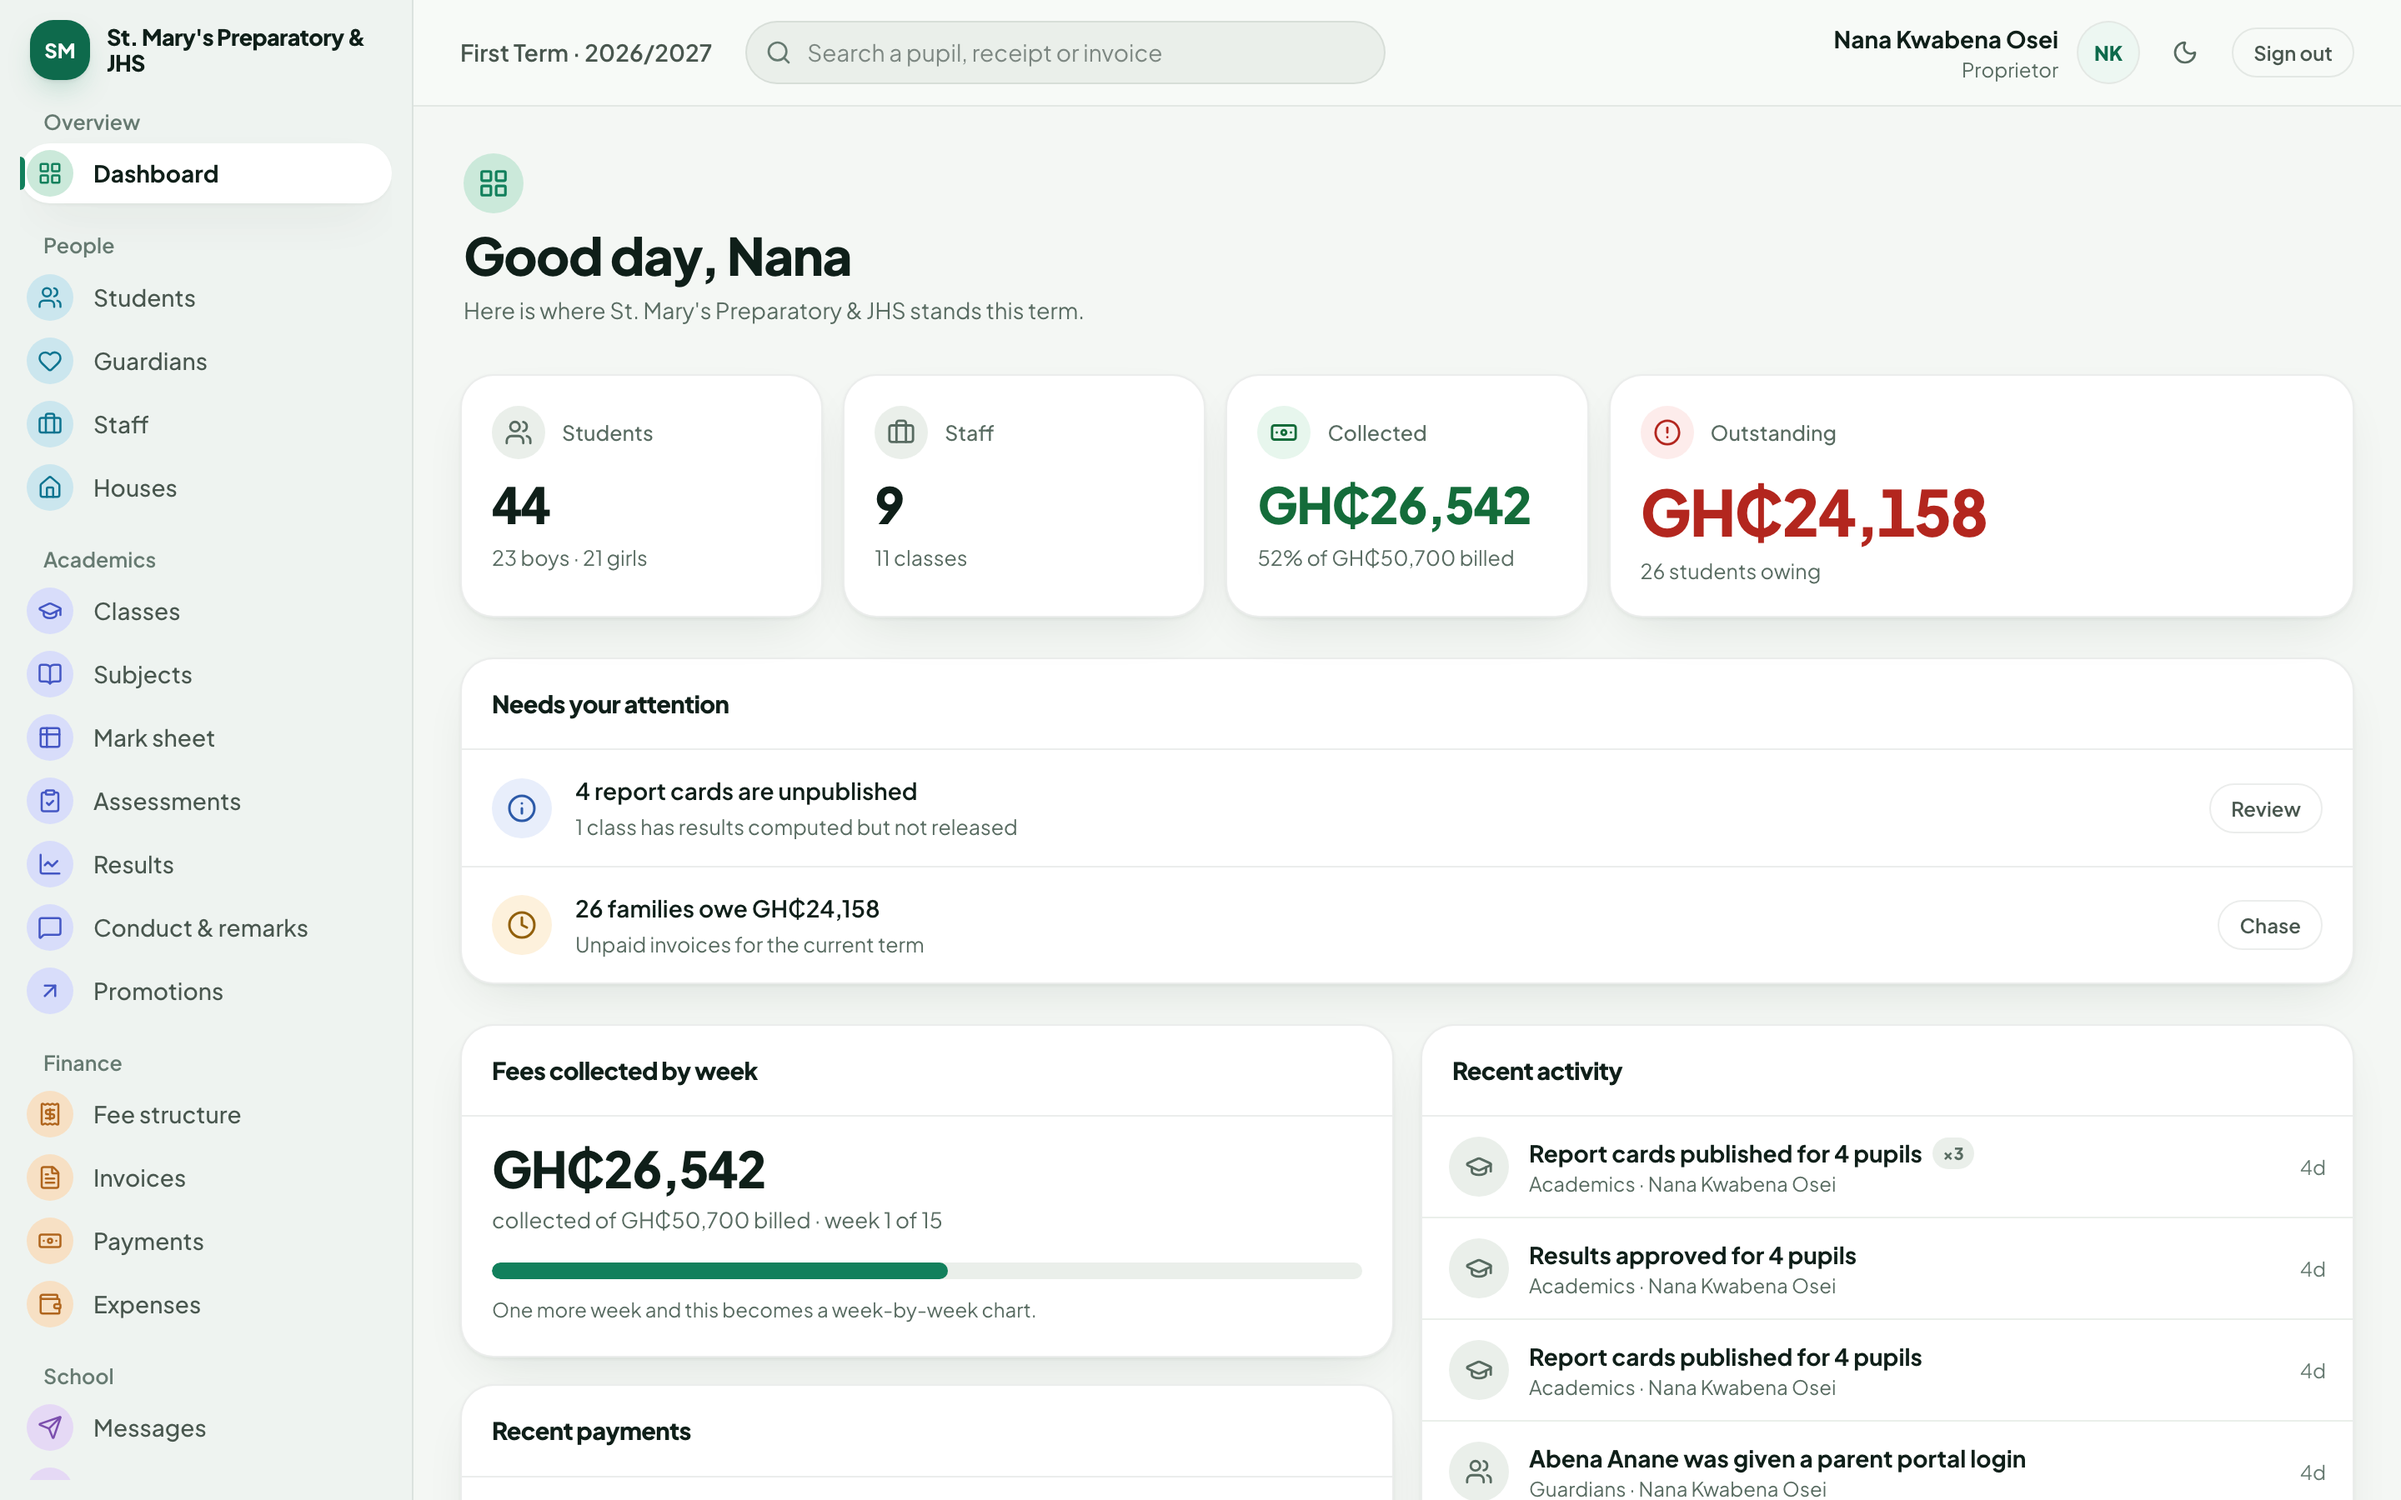
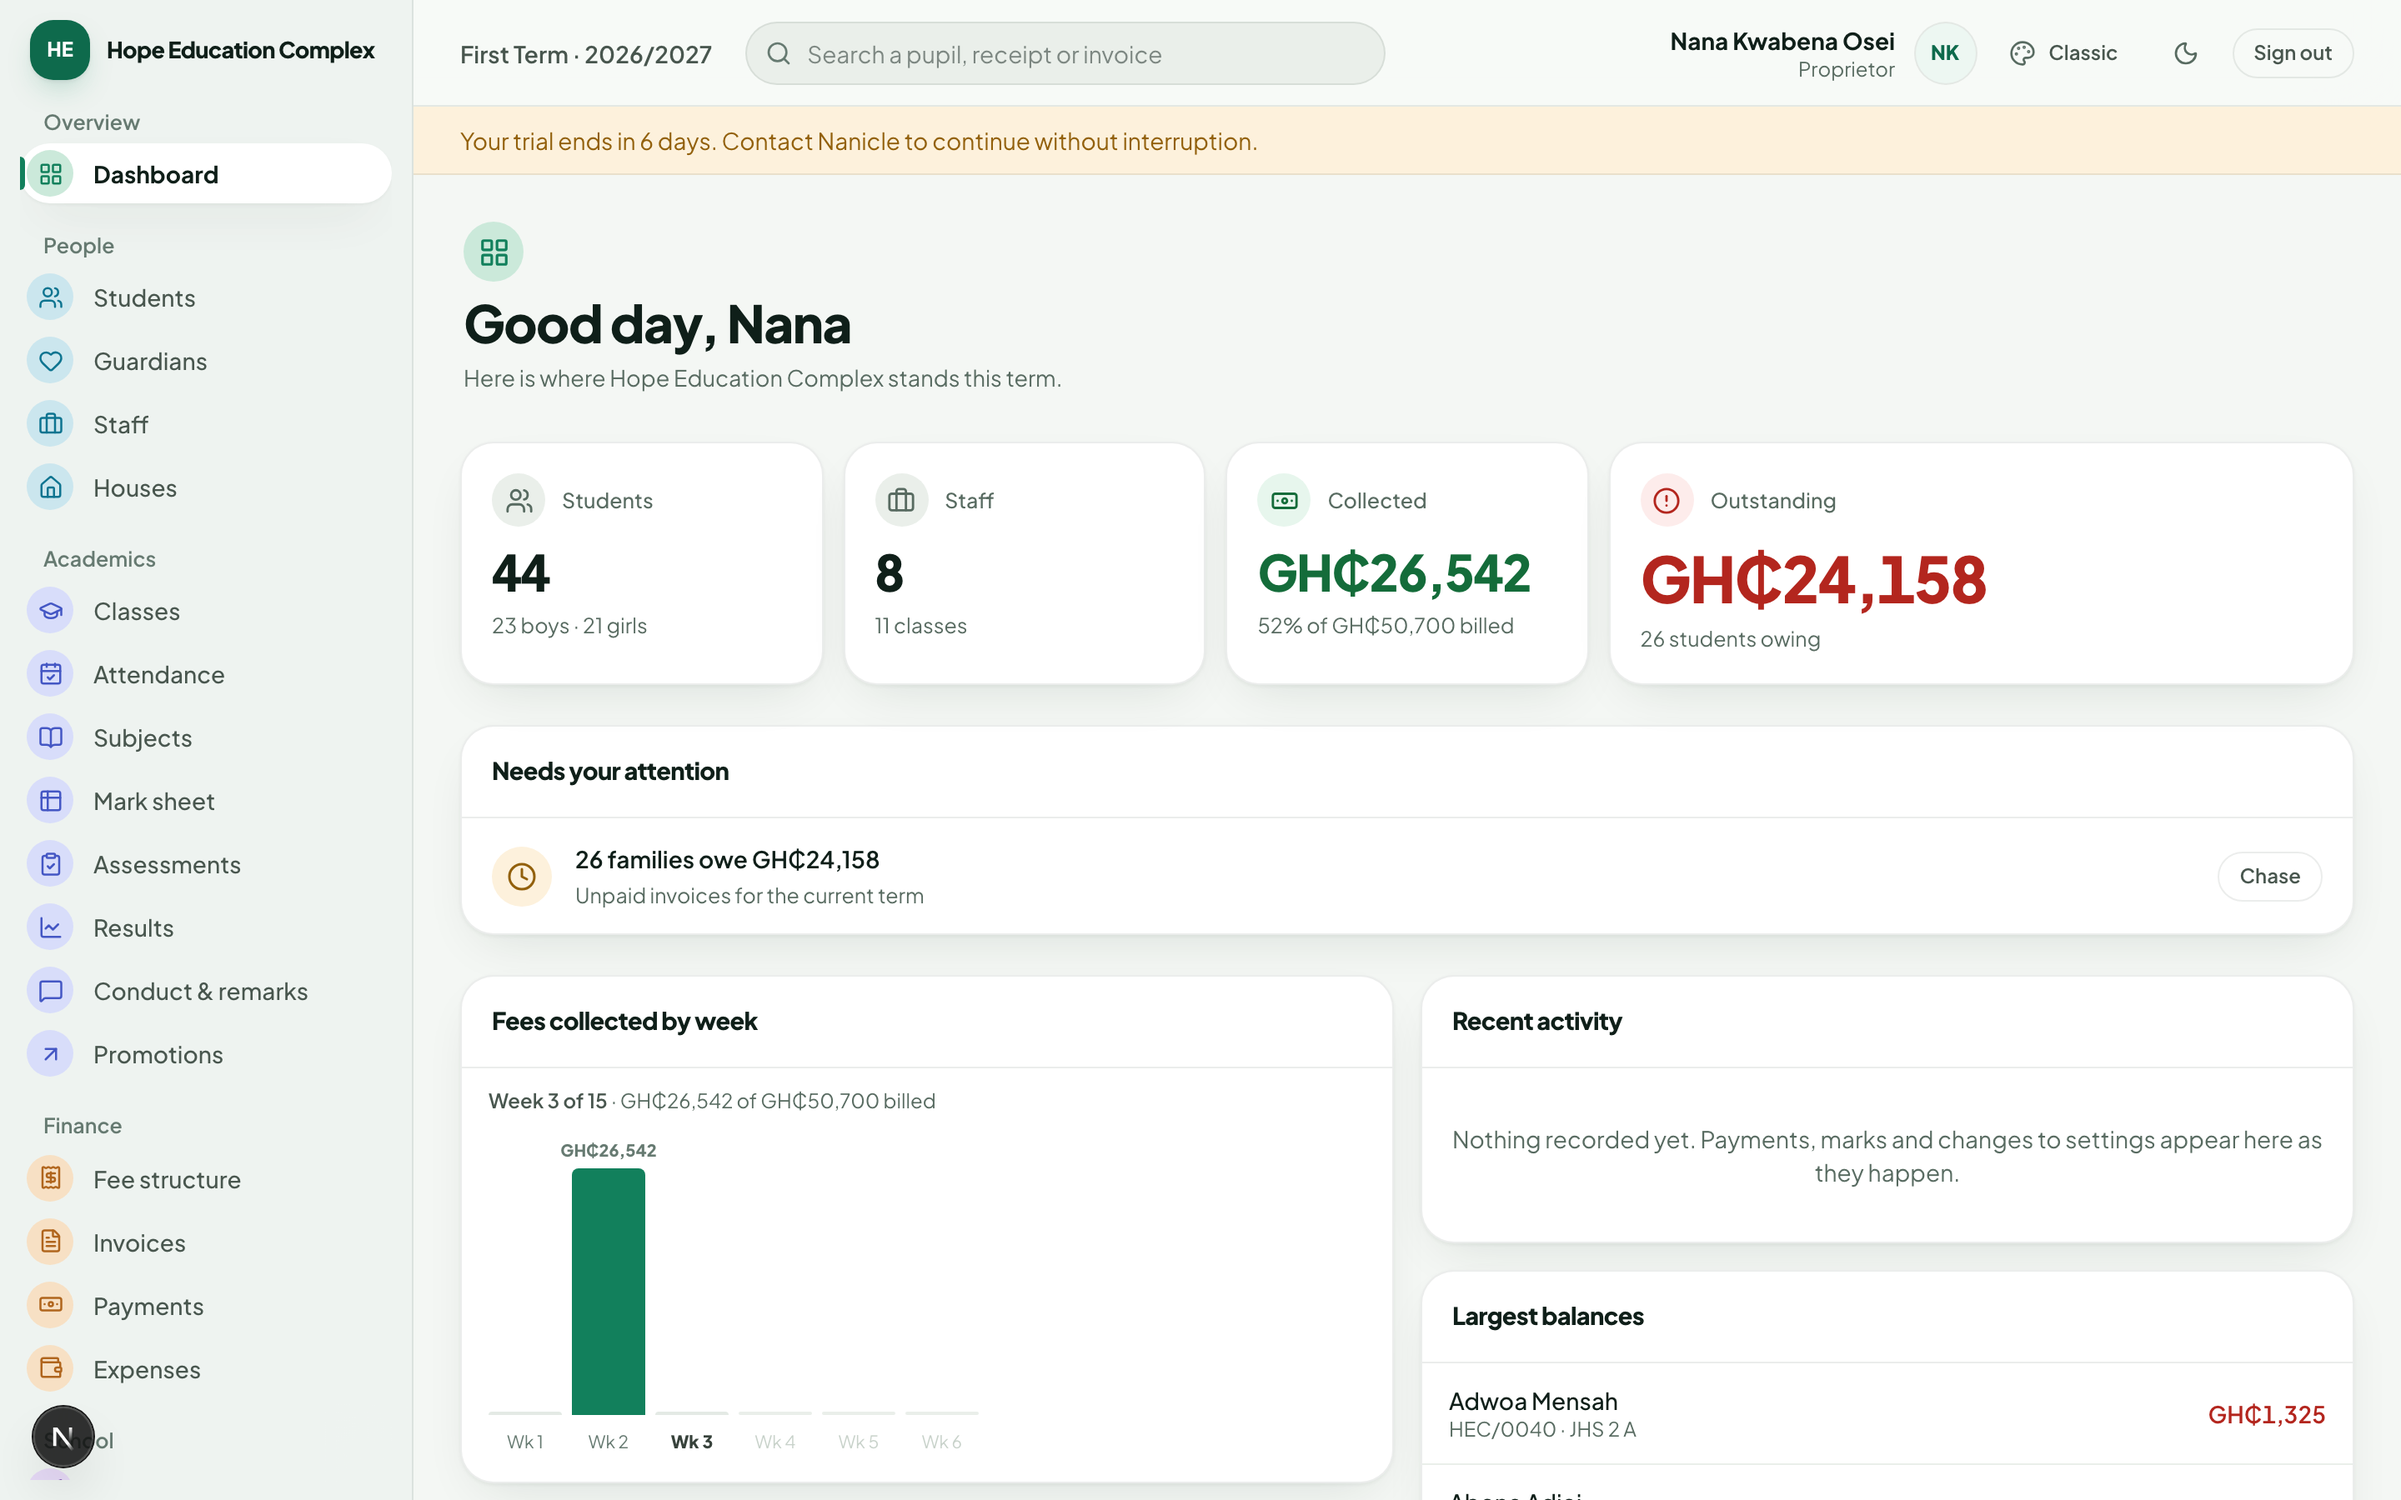
Two more places the old school's name survived the rename
Two things the text search in the previous rename couldn't catch:

- prisma/seed.ts built every student's admission number from a SEPARATE,
  hardcoded `SM/${...}` template — not the `sequences` row the rest of the
  rename already fixed, which only seeds the counter FUTURE admissions read
  from. Every one of the 44 demo students was still admitted as "SM/0001"
  onward. Now HEC/, matching the sequence it was always meant to agree with.
  The payment form's search placeholder had the same stale example.

- public/product-dashboard.png is a PNG, not text — a real screenshot of the
  actual dashboard, captured from a signed-in session and checked into the
  repo, which the marketing page's hero embeds directly. No amount of
  grepping finds a name baked into pixels. Retaken from a fresh hope-demo
  session, signed in as the non-admin OWNER as the file's own comment already
  warns to (no "Nanicle console" button, no test-run debris in the activity
  feed), at the same 2880x1800 the original shipped at.

diff --git a/src/app/(app)/payments/record-form.tsx b/src/app/(app)/payments/record-form.tsx
@@ -78,7 +78,7 @@ export function RecordForm({ students }: { students: StudentOption[] }) {
             type="text"
             value={query}
             onChange={(event) => setQuery(event.target.value)}
-            placeholder="e.g. Mensah or SM/0012"
+            placeholder="e.g. Mensah or HEC/0012"
             className={inputClass}
           />
         </Field>

diff --git a/prisma/seed.ts b/prisma/seed.ts
@@ -425,7 +425,7 @@ async function main() {
       const student = await prisma.student.create({
         data: {
           schoolId,
-          admissionNo: `SM/${pad(admissionSeq)}`,
+          admissionNo: `HEC/${pad(admissionSeq)}`,
           firstName,
           lastName,
           gender: isFemale ? "FEMALE" : "MALE",
